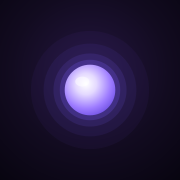
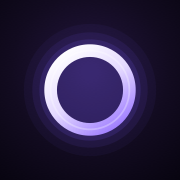
Rediseño de ícono: anillo/O con glow morado
Reemplaza la esfera sólida por un anillo (aro blanco con degradado a
violeta y glow en el borde) en favicon.svg y todos los tamaños
derivados (48, 192, 512, apple-touch-icon). Decisión de Daniel tras
ver ambas opciones. sw.js: bump de CACHE a v8.

Changed region(s): [[0.1944, 0.1944, 0.8056, 0.8056]]

diff --git a/sw.js b/sw.js
@@ -1,4 +1,4 @@
-const CACHE='olimpo-v7';
+const CACHE='olimpo-v8';
 const CORE=['./','./index.html','./manifest.webmanifest','./favicon.svg','./icon-192.png','./icon-512.png','./apple-touch-icon.png'];
 self.addEventListener('install',function(e){e.waitUntil(caches.open(CACHE).then(function(c){return c.addAll(CORE);}).then(function(){return self.skipWaiting();}));});
 self.addEventListener('activate',function(e){e.waitUntil(caches.keys().then(function(ks){return Promise.all(ks.filter(function(k){return k!==CACHE;}).map(function(k){return caches.delete(k);}));}).then(function(){return self.clients.claim();}));});
